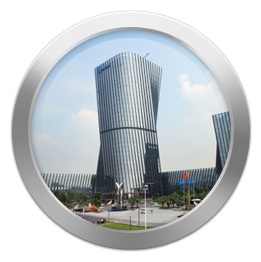
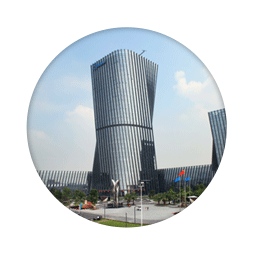
Efecto zoom home

Changed region(s): [[0.0275, 0.093, 0.9882, 0.9612]]

diff --git a/application/views/home.php b/application/views/home.php
@@ -26,17 +26,17 @@
 		<div id="big-buttons">
 			<div class="button">
 				<div class="title">Sobre Nosotros</div>
-				<div class="icon"><img src="<?=base_url()?>media/img/lib/icon-nosotros.png"></div>
+				<div class="icon"><img class="zoomico" src="<?=base_url()?>media/img/lib/icon-nosotros.png"><img src="<?=base_url()?>media/img/lib/ironcircle.png"></div>
 				<div class="text">Proin gravida nibh vel velit auctor aliquet. Aenean sollicitudin, lorem quis bibendum auctor, nisi elit consequat ipsum, nec sagittis sem nibh id elit. Duis sed odio</div>
 			</div>
 			<div class="button">
 				<div class="title">Productos</div>
-				<div class="icon"><img src="<?=base_url()?>media/img/lib/icon-productos.png"></div>
+				<div class="icon"><img class="zoomico" src="<?=base_url()?>media/img/lib/icon-productos.png"><img src="<?=base_url()?>media/img/lib/ironcircle.png"></div>
 				<div class="text">Proin gravida nibh vel velit auctor aliquet. Aenean sollicitudin, lorem quis bibendum auctor, nisi elit consequat ipsum, nec sagittis sem nibh id elit. Duis sed odio</div>
 			</div>
 			<div class="button last">
 				<div class="title">Distribuidor</div>
-				<div class="icon"><img src="<?=base_url()?>media/img/lib/icon-distribuidor.png"></div>
+				<div class="icon"><img class="zoomico" src="<?=base_url()?>media/img/lib/icon-distribuidor.png"><img src="<?=base_url()?>media/img/lib/ironcircle.png"></div>
 				<div class="text">Proin gravida nibh vel velit auctor aliquet. Aenean sollicitudin, lorem quis bibendum auctor, nisi elit consequat ipsum, nec sagittis sem nibh id elit. Duis sed odio</div>
 			</div>
 		</div>
